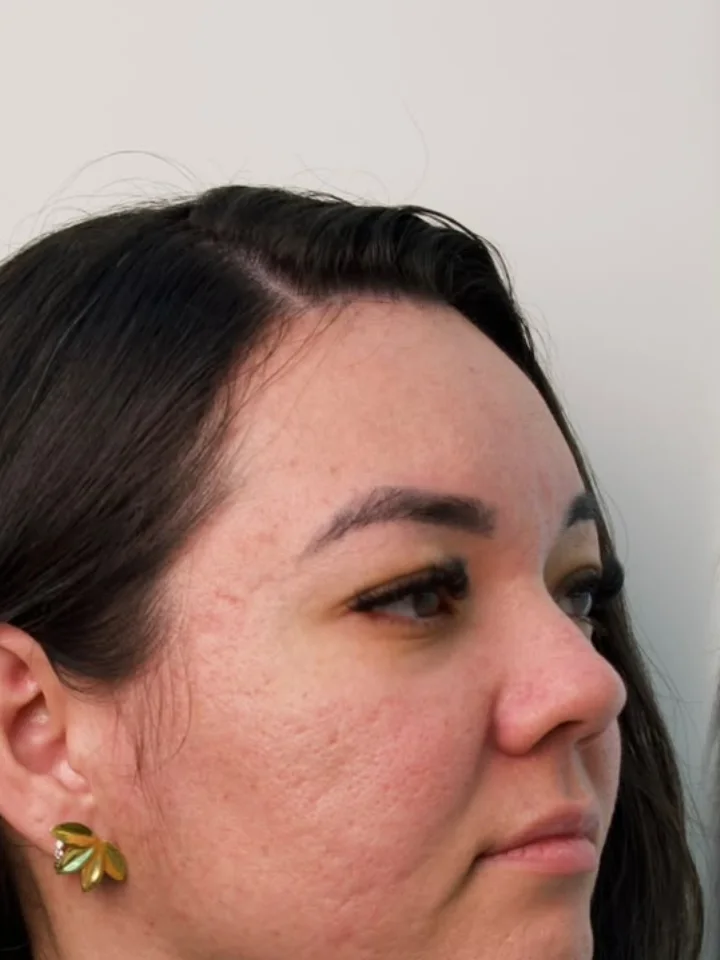
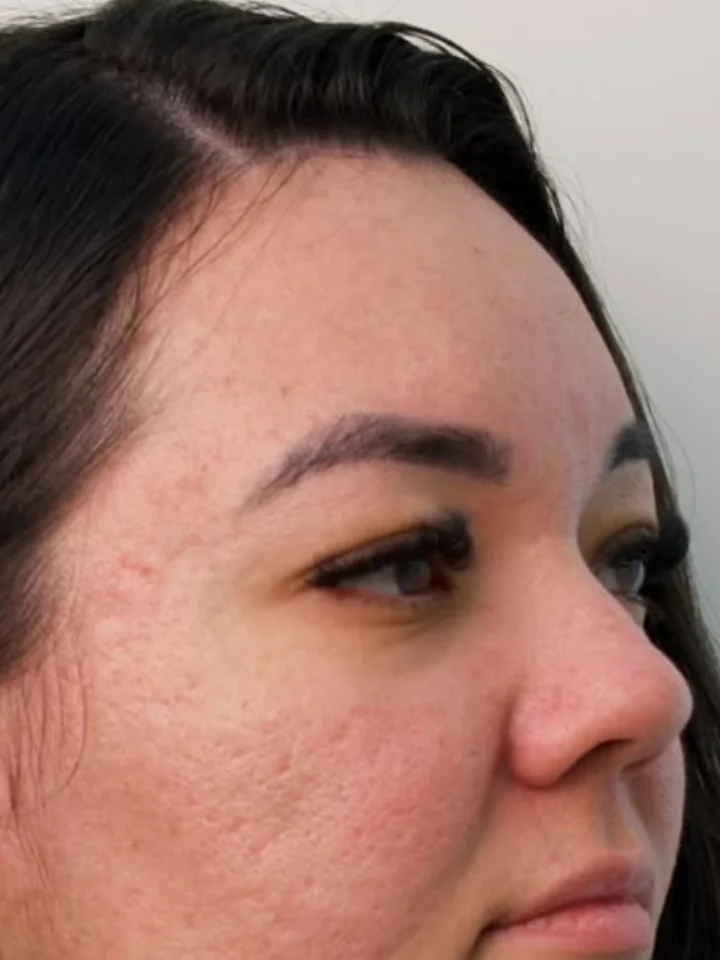
Caso 05: alinha antes e depois pelo nariz e pela boca
Claude-Session: https://claude.ai/code/session_01L5Ena9RqwqTxsbVJ1ngBvB

diff --git a/index.html b/index.html
@@ -568,18 +568,18 @@
         <h2 class="h2" id="res-title">Transformações reais dos nossos pacientes.</h2>
         <p class="muted">Arraste a linha sobre a foto para comparar o antes e o depois. Escolha outro caso nas miniaturas.</p>
         <div class="thumbs" role="group" aria-label="Escolher caso">
-          <button class="thumb is-active" data-case="04" aria-pressed="true" aria-label="Caso 1"><img src="assets/ba/04-depois.webp?v=b2" alt="" loading="lazy"></button>
-          <button class="thumb" data-case="06" aria-pressed="false" aria-label="Caso 2"><img src="assets/ba/06-depois.webp?v=b2" alt="" loading="lazy"></button>
-          <button class="thumb" data-case="02" aria-pressed="false" aria-label="Caso 3"><img src="assets/ba/02-depois.webp?v=b2" alt="" loading="lazy"></button>
-          <button class="thumb" data-case="05" aria-pressed="false" aria-label="Caso 4"><img src="assets/ba/05-depois.webp?v=b2" alt="" loading="lazy"></button>
-          <button class="thumb" data-case="03" aria-pressed="false" aria-label="Caso 5"><img src="assets/ba/03-depois.webp?v=b2" alt="" loading="lazy"></button>
-          <button class="thumb" data-case="01" aria-pressed="false" aria-label="Caso 6"><img src="assets/ba/01-depois.webp?v=b2" alt="" loading="lazy"></button>
+          <button class="thumb is-active" data-case="04" aria-pressed="true" aria-label="Caso 1"><img src="assets/ba/04-depois.webp?v=b3" alt="" loading="lazy"></button>
+          <button class="thumb" data-case="06" aria-pressed="false" aria-label="Caso 2"><img src="assets/ba/06-depois.webp?v=b3" alt="" loading="lazy"></button>
+          <button class="thumb" data-case="02" aria-pressed="false" aria-label="Caso 3"><img src="assets/ba/02-depois.webp?v=b3" alt="" loading="lazy"></button>
+          <button class="thumb" data-case="05" aria-pressed="false" aria-label="Caso 4"><img src="assets/ba/05-depois.webp?v=b3" alt="" loading="lazy"></button>
+          <button class="thumb" data-case="03" aria-pressed="false" aria-label="Caso 5"><img src="assets/ba/03-depois.webp?v=b3" alt="" loading="lazy"></button>
+          <button class="thumb" data-case="01" aria-pressed="false" aria-label="Caso 6"><img src="assets/ba/01-depois.webp?v=b3" alt="" loading="lazy"></button>
         </div>
         <p class="results__note">Resultados individuais. Podem variar de pessoa para pessoa e dependem de avaliação profissional.</p>
       </div>
       <div class="compare" id="compare" style="--pos:50%">
-        <img class="compare__img compare__after" src="assets/ba/04-depois.webp?v=b2" width="720" height="960" alt="Depois do tratamento" loading="lazy">
-        <div class="compare__before"><img class="compare__img" src="assets/ba/04-antes.webp?v=b2" width="720" height="960" alt="Antes do tratamento" loading="lazy"></div>
+        <img class="compare__img compare__after" src="assets/ba/04-depois.webp?v=b3" width="720" height="960" alt="Depois do tratamento" loading="lazy">
+        <div class="compare__before"><img class="compare__img" src="assets/ba/04-antes.webp?v=b3" width="720" height="960" alt="Antes do tratamento" loading="lazy"></div>
         <span class="compare__tag compare__tag--l">Antes</span>
         <span class="compare__tag compare__tag--r">Depois</span>
         <div class="compare__line" aria-hidden="true"><span class="compare__knob"><svg class="ico"><use href="#i-drag"/></svg></span></div>
@@ -768,6 +768,6 @@
 <script src="assets/vendor/gsap.min.js" defer></script>
 <script src="assets/vendor/ScrollTrigger.min.js" defer></script>
 <script src="assets/vendor/lenis.min.js" defer></script>
-<script src="assets/js/main.js?v=6d942037" defer></script>
+<script src="assets/js/main.js?v=6f355a40" defer></script>
 </body>
 </html>

diff --git a/assets/js/main.js b/assets/js/main.js
@@ -116,7 +116,7 @@
           }, 220);
         };
         a2.onload = b2.onload = swap; a2.onerror = b2.onerror = swap;
-        a2.src = 'assets/ba/' + c + '-depois.webp?v=b2'; b2.src = 'assets/ba/' + c + '-antes.webp?v=b2';
+        a2.src = 'assets/ba/' + c + '-depois.webp?v=b3'; b2.src = 'assets/ba/' + c + '-antes.webp?v=b3';
       });
     });
   }
